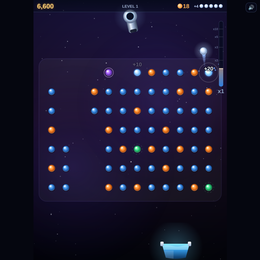
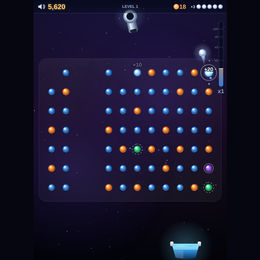
Move the sound toggle off the ball counter, and make Super Guide legible
Two things a phone made obvious. The sound toggle was a floating DOM
button in the window corner, which on a narrow screen sat straight on top
of the balls-left icons; it is drawn into the HUD bar now, at the left
next to the score, where nothing can overlap it, with a tap target big
enough for a thumb and no dead zone over the board. The counters
themselves are a touch larger so they survive being scaled down to a
phone.

Super Guide was worse than unclear, it was wrong: hitting a green peg as
Bjarne set the flag and nothing ever cleared it, so the green line
appeared out of nowhere and then stayed for the rest of the level, while
the other two characters announce themselves and fire once. It now lasts
exactly one drop, as it should, announces itself with the same banner as
Multiball and Space Blast, and while it is armed a badge above the peg
field says SUPER GUIDE - THIS DROP. The menu says outright that green
pegs are what fire your power.

Also drops the unused pendingMulti flag left over from the first pass.

Claude-Session: https://claude.ai/code/session_013RQJR5Yo8wuNdv8XLMGLaT

diff --git a/games/peggle.html b/games/peggle.html
@@ -220,34 +220,18 @@
             font-size: 17px;
         }
 
-        #mute {
-            position: absolute;
-            top: calc(env(safe-area-inset-top, 0px) + 8px);
-            right: 10px;
-            z-index: 4;
-            cursor: pointer;
-            border: 1px solid rgba(140, 170, 230, .28);
-            background: rgba(8, 12, 30, .6);
-            color: var(--dim);
-            border-radius: 10px;
-            width: 34px;
-            height: 30px;
-            font-size: 15px;
-            line-height: 1;
-        }
     </style>
 </head>
 <body>
 <div id="stage">
     <canvas id="board"></canvas>
-    <button id="mute" type="button" title="Sound on/off">&#128266;</button>
-
     <div class="veil" id="menu">
         <div class="panel">
             <h1>PEG FEVER</h1>
             <p class="sub">Clear all <b style="color:#ff8a2b">25 orange pegs</b> with 10 balls.<br>
                 Every peg in one drop is worth more than the last, and the fever meter lifts the whole
                 board to x10 as the oranges fall.</p>
+            <p class="sub" style="margin-bottom:8px">Hit a <b style="color:#4dff9c">green peg</b> to fire your power:</p>
             <div class="chars" id="charList"></div>
             <button class="btn" id="startBtn" type="button">PLAY</button>
             <div class="seed">Board seed
@@ -330,7 +314,7 @@
     var CHARACTERS = [
         {
             id: 'guide', name: 'Bjarne', power: 'Super Guide',
-            blurb: 'The next drop is drawn out three bounces deep.'
+            blurb: 'Your next drop is drawn out three bounces deep.'
         },
         {
             id: 'multi', name: 'Jimbo', power: 'Multiball',
@@ -627,7 +611,7 @@
         purple: null,
         greenArmed: false,
         superGuide: false,
-        pendingMulti: false,
+        guideSpent: false,
         freeBallIndex: 0,
         popups: [],
         parts: [],
@@ -676,7 +660,7 @@
         G.parts = [];
         G.slots = false;
         G.superGuide = false;
-        G.pendingMulti = false;
+        G.guideSpent = false;
         G.greenArmed = false;
         G.styleTimer = 0;
         G.bucketX = W / 2;
@@ -722,7 +706,8 @@
             Math.sin(a) * LAUNCH_SPEED,
             Math.cos(a) * LAUNCH_SPEED
         )];
-        G.pendingMulti = G.character.id === 'multi' && G.greenArmed;
+        /* the guide is good for exactly this one drop, and is spent by it */
+        if (G.superGuide) G.guideSpent = true;
         G.phase = 'shot';
         tone(-12, 0.16, 'square', 0.3);
         noise(0.12, 0.2);
@@ -822,6 +807,7 @@
         G.greenArmed = true;
         if (G.character.id === 'guide') {
             G.superGuide = true;
+            flash('SUPER GUIDE');
         } else if (G.character.id === 'multi') {
             /* Split into three, the way the original does: the ball carries on
              * and two siblings fan out from the same peg. */
@@ -1099,6 +1085,7 @@
         }
         G.mult = feverMult();
         G.greenArmed = false;
+        if (G.guideSpent) { G.superGuide = false; G.guideSpent = false; }
         if (G.slots) { levelOver(true); return; }
         if (G.ballsLeft <= 0) { levelOver(false); return; }
         pickPurple();
@@ -1658,6 +1645,66 @@
         ctx.restore();
     }
 
+    var SOUND_BTN = {x: 24, y: 22, r: 20};
+
+    function drawSpeaker(x, y) {
+        ctx.save();
+        ctx.translate(x, y);
+        ctx.fillStyle = muted ? 'rgba(150,170,205,.75)' : '#cfe3ff';
+        ctx.beginPath();
+        ctx.moveTo(-8, -4);
+        ctx.lineTo(-3, -4);
+        ctx.lineTo(3, -9);
+        ctx.lineTo(3, 9);
+        ctx.lineTo(-3, 4);
+        ctx.lineTo(-8, 4);
+        ctx.closePath();
+        ctx.fill();
+        ctx.strokeStyle = ctx.fillStyle;
+        ctx.lineWidth = 1.8;
+        ctx.lineCap = 'round';
+        if (muted) {
+            ctx.beginPath();
+            ctx.moveTo(6, -5);
+            ctx.lineTo(12, 5);
+            ctx.moveTo(12, -5);
+            ctx.lineTo(6, 5);
+            ctx.stroke();
+        } else {
+            for (var i = 1; i <= 2; i++) {
+                ctx.beginPath();
+                ctx.arc(4, 0, 3 + i * 3.2, -0.9, 0.9);
+                ctx.stroke();
+            }
+        }
+        ctx.restore();
+    }
+
+    /* What the next drop will do, said out loud — the guide only shows up
+     * after a green peg, and only for one shot, so it says so. */
+    function drawPowerBadge() {
+        if (!G.superGuide || G.phase !== 'aim') return;
+        var text = 'SUPER GUIDE · THIS DROP';
+        ctx.save();
+        ctx.font = 'bold 13px "Trebuchet MS", sans-serif';
+        ctx.textAlign = 'center';
+        var w = ctx.measureText(text).width + 26;
+        /* parked in the gap between the launcher and the peg field, so it
+         * covers neither the cannon nor a peg */
+        var top = 1e9;
+        for (var i = 0; i < G.pegs.length; i++) if (G.pegs[i].y < top) top = G.pegs[i].y;
+        var x = W / 2 - w / 2, y = Math.max(112, top - 92);
+        ctx.fillStyle = 'rgba(12,40,28,.85)';
+        roundRect(x, y, w, 24, 12);
+        ctx.fill();
+        ctx.strokeStyle = 'rgba(120,255,190,' + (0.5 + 0.35 * Math.sin(perf / 260)) + ')';
+        ctx.lineWidth = 1.5;
+        ctx.stroke();
+        ctx.fillStyle = '#9dffd0';
+        ctx.fillText(text, W / 2, y + 16);
+        ctx.restore();
+    }
+
     function drawBallIcon(x, y, r) {
         var g = ctx.createRadialGradient(x - r * 0.35, y - r * 0.4, r * 0.1, x, y, r);
         g.addColorStop(0, '#ffffff');
@@ -1670,7 +1717,7 @@
     }
 
     function drawHud() {
-        var barH = 40;
+        var barH = 44;
         ctx.save();
         var bar = ctx.createLinearGradient(0, 0, 0, barH);
         bar.addColorStop(0, 'rgba(6,10,26,.88)');
@@ -1680,49 +1727,52 @@
         ctx.fillStyle = 'rgba(150,200,255,.25)';
         ctx.fillRect(0, barH - 1, W, 1);
 
+        drawSpeaker(SOUND_BTN.x, SOUND_BTN.y);
+
         ctx.textAlign = 'left';
-        ctx.font = 'bold 22px "Trebuchet MS", sans-serif';
+        ctx.font = 'bold 23px "Trebuchet MS", sans-serif';
         ctx.fillStyle = '#ffd479';
         ctx.shadowColor = 'rgba(255,160,50,.6)';
         ctx.shadowBlur = 12;
-        ctx.fillText(G.score.toLocaleString('en-US'), 12, 28);
+        ctx.fillText(G.score.toLocaleString('en-US'), 48, 30);
         ctx.shadowBlur = 0;
 
         ctx.textAlign = 'center';
         ctx.font = 'bold 13px "Trebuchet MS", sans-serif';
         ctx.fillStyle = 'rgba(190,210,245,.8)';
-        ctx.fillText('LEVEL ' + G.level, W / 2, 25);
+        ctx.fillText('LEVEL ' + G.level, W / 2, 26);
 
         /* laid out from the right edge: the balls left, then the oranges */
         var shown = Math.min(G.ballsLeft, 5);
-        for (var i = 0; i < shown; i++) drawBallIcon(W - 20 - i * 16, 20, 6.5);
-        var cursor = W - 20 - (shown - 1) * 16 - 10;
+        for (var i = 0; i < shown; i++) drawBallIcon(W - 21 - i * 18, 22, 7.5);
+        var cursor = W - 21 - (shown - 1) * 18 - 12;
         if (G.ballsLeft > shown) {
             ctx.textAlign = 'right';
             ctx.font = 'bold 13px "Trebuchet MS", sans-serif';
             ctx.fillStyle = '#c3d8ff';
-            ctx.fillText('+' + (G.ballsLeft - shown), cursor, 25);
+            ctx.fillText('+' + (G.ballsLeft - shown), cursor, 27);
             cursor -= 22;
         }
 
         var left = Math.max(0, G.orangeTotal - G.orangeHit);
         ctx.textAlign = 'right';
-        ctx.font = 'bold 19px "Trebuchet MS", sans-serif';
+        ctx.font = 'bold 20px "Trebuchet MS", sans-serif';
         ctx.fillStyle = '#ffb057';
-        ctx.fillText(String(left), cursor - 8, 27);
+        ctx.fillText(String(left), cursor - 8, 29);
         var numW = ctx.measureText(String(left)).width;
         var ox = cursor - 18 - numW;
-        var og = ctx.createRadialGradient(ox - 3, 17, 2, ox, 20, 8);
+        var og = ctx.createRadialGradient(ox - 3, 19, 2, ox, 22, 9);
         og.addColorStop(0, '#ffdfa6');
         og.addColorStop(1, '#ff8f2e');
         ctx.fillStyle = og;
         ctx.beginPath();
-        ctx.arc(ox, 20, 8, 0, Math.PI * 2);
+        ctx.arc(ox, 22, 9, 0, Math.PI * 2);
         ctx.fill();
 
         ctx.restore();
 
         drawFeverMeter();
+        drawPowerBadge();
     }
 
     function drawFeverMeter() {
@@ -1890,14 +1940,24 @@
 
     var pointerDown = false, movedFar = false, downAt = null;
 
+    function onSoundButton(p) {
+        return Math.hypot(p.x - SOUND_BTN.x, p.y - SOUND_BTN.y) < SOUND_BTN.r + 12;
+    }
+
     cvs.addEventListener('pointerdown', function (e) {
         if (G.phase === 'menu') return;
+        var p = toBoard(e.clientX, e.clientY);
+        if (onSoundButton(p)) {     // the speaker sits in the HUD, not over the board
+            audio();
+            toggleMute();
+            e.preventDefault();
+            return;
+        }
         cvs.setPointerCapture(e.pointerId);
         pointerDown = true;
         movedFar = false;
         downAt = {x: e.clientX, y: e.clientY};
         audio();
-        var p = toBoard(e.clientX, e.clientY);
         aimAt(p.x, p.y);
         e.preventDefault();
     });
@@ -1908,7 +1968,7 @@
             if (downAt && Math.hypot(e.clientX - downAt.x, e.clientY - downAt.y) > 8) movedFar = true;
             aimAt(p.x, p.y);
             e.preventDefault();
-        } else if (e.pointerType === 'mouse' && G.phase === 'aim') {
+        } else if (e.pointerType === 'mouse' && G.phase === 'aim' && !onSoundButton(p)) {
             aimAt(p.x, p.y);
         }
     });
@@ -1947,7 +2007,6 @@
     var overTitle = document.getElementById('overTitle');
     var overTally = document.getElementById('overTally');
     var overSeed = document.getElementById('overSeed');
-    var muteBtn = document.getElementById('mute');
 
     CHARACTERS.forEach(function (c, i) {
         var b = document.createElement('button');
@@ -1967,11 +2026,8 @@
 
     function toggleMute() {
         muted = !muted;
-        muteBtn.innerHTML = muted ? '&#128263;' : '&#128266;';
         if (master) master.gain.value = muted ? 0 : 0.32;
     }
-
-    muteBtn.addEventListener('click', toggleMute);
 
     function urlSeed() {
         var m = /[?&]seed=(\d+)/.exec(location.search);
